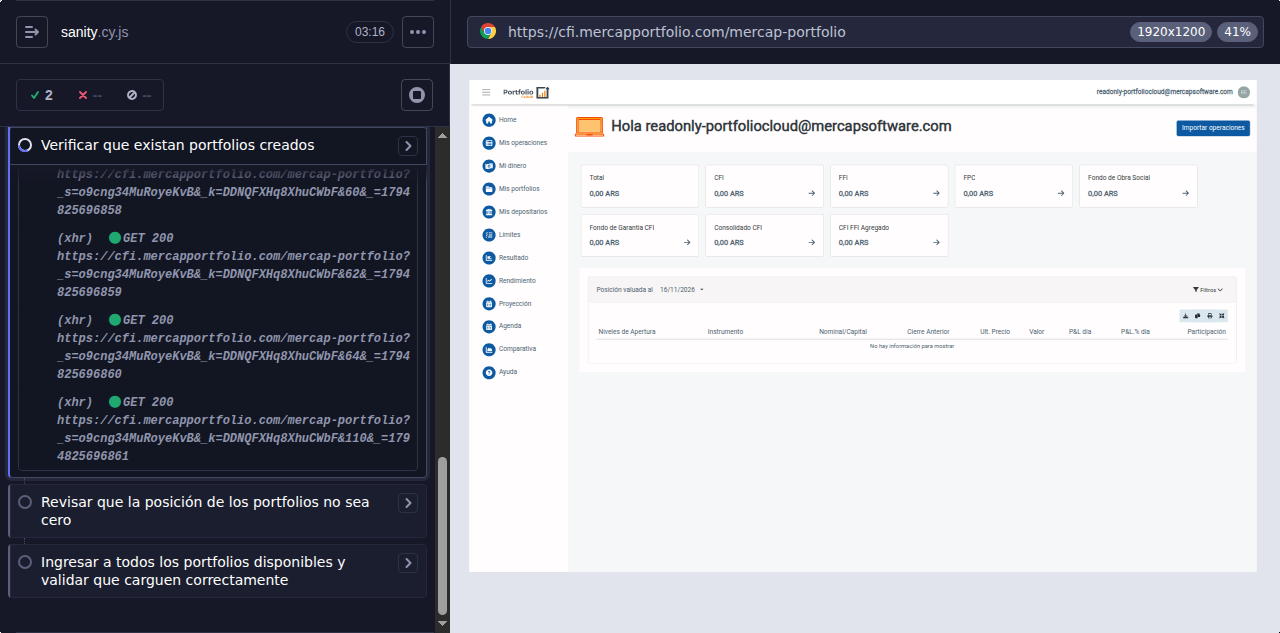
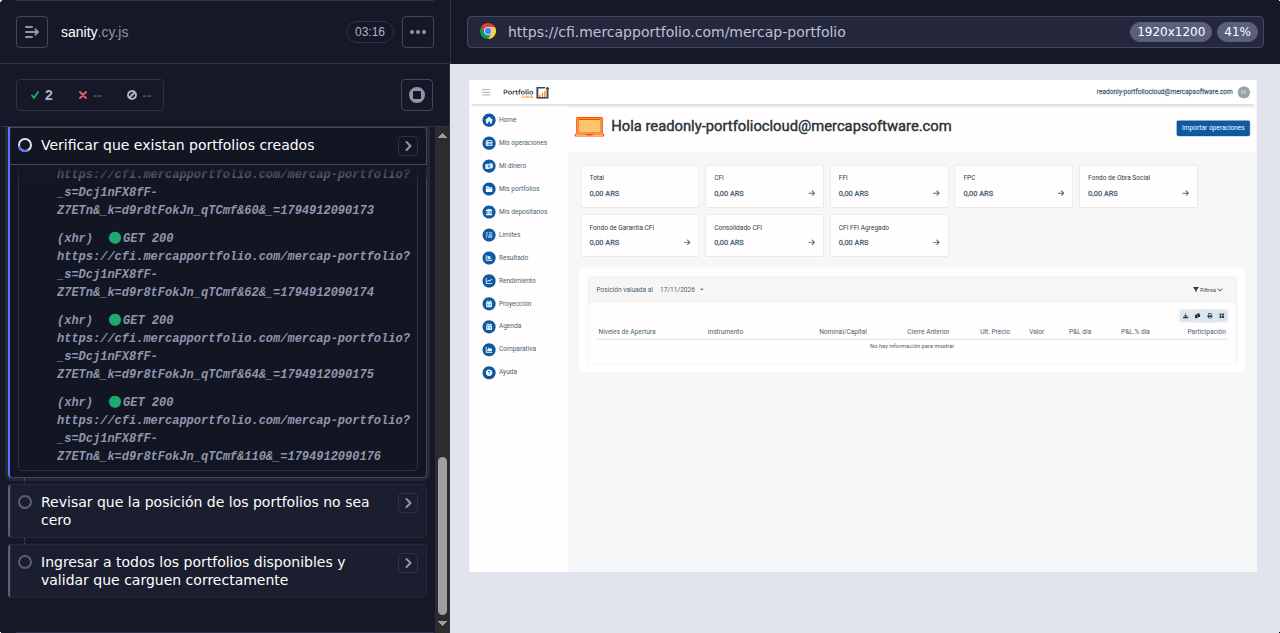
deploy: Mercap/portfolio-qa-tests@4aeec43ded94edbb944f34a9a0a7dde37aa3ffd3

diff --git a/mpc/Production/CFI/sanity/index.html b/mpc/Production/CFI/sanity/index.html
@@ -1,2 +1,2 @@
 <!doctype html>
-<html lang="en"><head><meta charSet="utf-8"/><meta http-equiv="X-UA-Compatible" content="IE=edge"/><meta name="viewport" content="width=device-width, initial-scale=1"/><title>Mochawesome Report</title><link rel="stylesheet" href="assets/app.css"/></head><body data-raw="{&quot;stats&quot;:{&quot;suites&quot;:1,&quot;tests&quot;:5,&quot;passes&quot;:2,&quot;pending&quot;:1,&quot;failures&quot;:1,&quot;testsRegistered&quot;:5,&quot;passPercent&quot;:40,&quot;pendingPercent&quot;:20,&quot;other&quot;:0,&quot;hasOther&quot;:false,&quot;skipped&quot;:1,&quot;hasSkipped&quot;:true,&quot;start&quot;:&quot;2026-11-16T10:41:22.783Z&quot;,&quot;end&quot;:&quot;2026-11-16T10:44:39.587Z&quot;,&quot;duration&quot;:196804},&quot;results&quot;:[{&quot;uuid&quot;:&quot;426143c4-1636-4053-9a1e-b0bec9979eef&quot;,&quot;title&quot;:&quot;&quot;,&quot;fullFile&quot;:&quot;build/production/cfi/specs/sanity/sanity.cy.js&quot;,&quot;file&quot;:&quot;build/production/cfi/specs/sanity/sanity.cy.js&quot;,&quot;beforeHooks&quot;:[],&quot;afterHooks&quot;:[],&quot;tests&quot;:[],&quot;suites&quot;:[{&quot;uuid&quot;:&quot;5859dbad-97ca-4b66-a118-0deee139c617&quot;,&quot;title&quot;:&quot;Precondición Admin Login&quot;,&quot;fullFile&quot;:&quot;&quot;,&quot;file&quot;:&quot;&quot;,&quot;beforeHooks&quot;:[],&quot;afterHooks&quot;:[],&quot;tests&quot;:[{&quot;title&quot;:&quot;Ingresar y hacer login en el admin de MPC&quot;,&quot;fullTitle&quot;:&quot;Precondición Admin Login Ingresar y hacer login en el admin de MPC&quot;,&quot;timedOut&quot;:null,&quot;duration&quot;:6519,&quot;state&quot;:&quot;passed&quot;,&quot;speed&quot;:&quot;medium&quot;,&quot;pass&quot;:true,&quot;fail&quot;:false,&quot;pending&quot;:false,&quot;context&quot;:null,&quot;code&quot;:&quot;cy.adminLoginMPC();&quot;,&quot;err&quot;:{},&quot;uuid&quot;:&quot;3125e8b8-78d6-4340-80b1-bf4f530e5eb8&quot;,&quot;parentUUID&quot;:&quot;5859dbad-97ca-4b66-a118-0deee139c617&quot;,&quot;isHook&quot;:false,&quot;skipped&quot;:false}],&quot;suites&quot;:[],&quot;passes&quot;:[&quot;3125e8b8-78d6-4340-80b1-bf4f530e5eb8&quot;],&quot;failures&quot;:[],&quot;pending&quot;:[],&quot;skipped&quot;:[],&quot;duration&quot;:6519,&quot;root&quot;:false,&quot;rootEmpty&quot;:false,&quot;_timeout&quot;:2000},{&quot;uuid&quot;:&quot;393f3e20-d275-4e20-a376-a4f33802e068&quot;,&quot;title&quot;:&quot;Precondición MPC Login&quot;,&quot;fullFile&quot;:&quot;&quot;,&quot;file&quot;:&quot;&quot;,&quot;beforeHooks&quot;:[],&quot;afterHooks&quot;:[],&quot;tests&quot;:[{&quot;title&quot;:&quot;Login en MPC&quot;,&quot;fullTitle&quot;:&quot;Precondición MPC Login Login en MPC&quot;,&quot;timedOut&quot;:null,&quot;duration&quot;:2525,&quot;state&quot;:&quot;passed&quot;,&quot;speed&quot;:&quot;fast&quot;,&quot;pass&quot;:true,&quot;fail&quot;:false,&quot;pending&quot;:false,&quot;context&quot;:null,&quot;code&quot;:&quot;cy.visit(_support_constants__WEBPACK_IMPORTED_MODULE_0__[\&quot;default\&quot;].MPC_LOCATION);&quot;,&quot;err&quot;:{},&quot;uuid&quot;:&quot;a2599c93-283d-4461-a480-2d75556d364d&quot;,&quot;parentUUID&quot;:&quot;393f3e20-d275-4e20-a376-a4f33802e068&quot;,&quot;isHook&quot;:false,&quot;skipped&quot;:false}],&quot;suites&quot;:[],&quot;passes&quot;:[&quot;a2599c93-283d-4461-a480-2d75556d364d&quot;],&quot;failures&quot;:[],&quot;pending&quot;:[],&quot;skipped&quot;:[],&quot;duration&quot;:2525,&quot;root&quot;:false,&quot;rootEmpty&quot;:false,&quot;_timeout&quot;:2000},{&quot;uuid&quot;:&quot;bab54916-c61a-47db-b9fe-b38994ee39dc&quot;,&quot;title&quot;:&quot;Verificar la posición valuada de los portfolios&quot;,&quot;fullFile&quot;:&quot;&quot;,&quot;file&quot;:&quot;&quot;,&quot;beforeHooks&quot;:[],&quot;afterHooks&quot;:[],&quot;tests&quot;:[{&quot;title&quot;:&quot;Verificar que existan portfolios creados&quot;,&quot;fullTitle&quot;:&quot;Verificar la posición valuada de los portfolios Verificar que existan portfolios creados&quot;,&quot;timedOut&quot;:null,&quot;duration&quot;:180207,&quot;state&quot;:&quot;failed&quot;,&quot;speed&quot;:null,&quot;pass&quot;:false,&quot;fail&quot;:true,&quot;pending&quot;:false,&quot;context&quot;:null,&quot;code&quot;:&quot;cy.validacionesHome();\n    cy.skipEncuesta();&quot;,&quot;err&quot;:{&quot;message&quot;:&quot;AssertionError: Timed out retrying after 180000ms: Expected to find element: `rect[class=\&quot;highcharts-background\&quot;]`, but never found it.&quot;,&quot;estack&quot;:&quot;AssertionError: Timed out retrying after 180000ms: Expected to find element: `rect[class=\&quot;highcharts-background\&quot;]`, but never found it.\n    at Context.eval (webpack://cypress/./cypress/support/commands/home.commands.js:191:0)\n    at wrapped (https://mercap.auth0.com/__cypress/runner/cypress_runner.js:146042:43)&quot;,&quot;diff&quot;:null},&quot;uuid&quot;:&quot;4bdd5d2b-cd41-4fbe-93be-1ebb9c03a8f9&quot;,&quot;parentUUID&quot;:&quot;bab54916-c61a-47db-b9fe-b38994ee39dc&quot;,&quot;isHook&quot;:false,&quot;skipped&quot;:false},{&quot;title&quot;:&quot;Revisar que la posición de los portfolios no sea cero&quot;,&quot;fullTitle&quot;:&quot;Verificar la posición valuada de los portfolios Revisar que la posición de los portfolios no sea cero&quot;,&quot;timedOut&quot;:null,&quot;duration&quot;:0,&quot;state&quot;:&quot;pending&quot;,&quot;speed&quot;:null,&quot;pass&quot;:false,&quot;fail&quot;:false,&quot;pending&quot;:true,&quot;context&quot;:null,&quot;code&quot;:&quot;cy.validarPortfoliosSinValorCero(&#x27;h6&#x27;, &#x27;h4&#x27;);&quot;,&quot;err&quot;:{},&quot;uuid&quot;:&quot;3dbda38f-964f-42e3-863a-52048c275789&quot;,&quot;parentUUID&quot;:&quot;bab54916-c61a-47db-b9fe-b38994ee39dc&quot;,&quot;isHook&quot;:false,&quot;skipped&quot;:false},{&quot;title&quot;:&quot;Ingresar a todos los portfolios disponibles y validar que carguen correctamente&quot;,&quot;fullTitle&quot;:&quot;Verificar la posición valuada de los portfolios Ingresar a todos los portfolios disponibles y validar que carguen correctamente&quot;,&quot;timedOut&quot;:null,&quot;duration&quot;:0,&quot;state&quot;:&quot;skipped&quot;,&quot;speed&quot;:null,&quot;pass&quot;:false,&quot;fail&quot;:false,&quot;pending&quot;:false,&quot;context&quot;:null,&quot;code&quot;:&quot;cy.contains(&#x27;Mis portfolios&#x27;, { matchCase: false }).click();\n    cy.validacionesMisPortfolios();\n    cy.recorridaPortfolios();&quot;,&quot;err&quot;:{},&quot;uuid&quot;:&quot;af831a10-b125-4d46-aaa8-4c69b2bddbf6&quot;,&quot;parentUUID&quot;:&quot;bab54916-c61a-47db-b9fe-b38994ee39dc&quot;,&quot;isHook&quot;:false,&quot;skipped&quot;:true}],&quot;suites&quot;:[],&quot;passes&quot;:[],&quot;failures&quot;:[&quot;4bdd5d2b-cd41-4fbe-93be-1ebb9c03a8f9&quot;],&quot;pending&quot;:[&quot;3dbda38f-964f-42e3-863a-52048c275789&quot;],&quot;skipped&quot;:[&quot;af831a10-b125-4d46-aaa8-4c69b2bddbf6&quot;],&quot;duration&quot;:180207,&quot;root&quot;:false,&quot;rootEmpty&quot;:false,&quot;_timeout&quot;:2000}],&quot;passes&quot;:[],&quot;failures&quot;:[],&quot;pending&quot;:[],&quot;skipped&quot;:[],&quot;duration&quot;:0,&quot;root&quot;:true,&quot;rootEmpty&quot;:true,&quot;_timeout&quot;:2000}],&quot;meta&quot;:{&quot;mocha&quot;:{&quot;version&quot;:&quot;7.2.0&quot;},&quot;mochawesome&quot;:{&quot;options&quot;:{&quot;quiet&quot;:false,&quot;reportFilename&quot;:&quot;report&quot;,&quot;saveHtml&quot;:true,&quot;saveJson&quot;:true,&quot;consoleReporter&quot;:&quot;spec&quot;,&quot;useInlineDiffs&quot;:false,&quot;code&quot;:true},&quot;version&quot;:&quot;7.1.4&quot;},&quot;marge&quot;:{&quot;options&quot;:{&quot;reportDir&quot;:&quot;cypress/reports&quot;,&quot;overwrite&quot;:false,&quot;cleanReporterJson&quot;:false,&quot;html&quot;:true,&quot;json&quot;:true,&quot;reportFilename&quot;:&quot;report&quot;,&quot;embeddedScreenshots&quot;:true,&quot;inlineAssets&quot;:true},&quot;version&quot;:&quot;6.3.2&quot;}}}" data-config="{&quot;reportFilename&quot;:&quot;index&quot;,&quot;reportDir&quot;:&quot;cypress/reports&quot;,&quot;reportTitle&quot;:&quot;portfolio-qa-tests&quot;,&quot;reportPageTitle&quot;:&quot;Mochawesome Report&quot;,&quot;inline&quot;:false,&quot;inlineAssets&quot;:false,&quot;cdn&quot;:false,&quot;charts&quot;:false,&quot;enableCharts&quot;:false,&quot;code&quot;:true,&quot;enableCode&quot;:true,&quot;autoOpen&quot;:false,&quot;overwrite&quot;:true,&quot;timestamp&quot;:false,&quot;ts&quot;:false,&quot;showPassed&quot;:true,&quot;showFailed&quot;:true,&quot;showPending&quot;:true,&quot;showSkipped&quot;:false,&quot;showHooks&quot;:&quot;failed&quot;,&quot;saveJson&quot;:false,&quot;saveHtml&quot;:true,&quot;dev&quot;:false,&quot;assetsDir&quot;:&quot;cypress/reports/assets&quot;,&quot;htmlFile&quot;:&quot;/home/runner/work/portfolio-qa-tests/portfolio-qa-tests/cypress/reports/index.html&quot;}"><div id="report"></div><script src="assets/app.js"></script></body></html>
+<html lang="en"><head><meta charSet="utf-8"/><meta http-equiv="X-UA-Compatible" content="IE=edge"/><meta name="viewport" content="width=device-width, initial-scale=1"/><title>Mochawesome Report</title><link rel="stylesheet" href="assets/app.css"/></head><body data-raw="{&quot;stats&quot;:{&quot;suites&quot;:1,&quot;tests&quot;:5,&quot;passes&quot;:2,&quot;pending&quot;:1,&quot;failures&quot;:1,&quot;testsRegistered&quot;:5,&quot;passPercent&quot;:40,&quot;pendingPercent&quot;:20,&quot;other&quot;:0,&quot;hasOther&quot;:false,&quot;skipped&quot;:1,&quot;hasSkipped&quot;:true,&quot;start&quot;:&quot;2026-11-17T10:41:16.182Z&quot;,&quot;end&quot;:&quot;2026-11-17T10:44:33.633Z&quot;,&quot;duration&quot;:197451},&quot;results&quot;:[{&quot;uuid&quot;:&quot;523249d3-6ff8-4694-9be5-bb632e6fd648&quot;,&quot;title&quot;:&quot;&quot;,&quot;fullFile&quot;:&quot;build/production/cfi/specs/sanity/sanity.cy.js&quot;,&quot;file&quot;:&quot;build/production/cfi/specs/sanity/sanity.cy.js&quot;,&quot;beforeHooks&quot;:[],&quot;afterHooks&quot;:[],&quot;tests&quot;:[],&quot;suites&quot;:[{&quot;uuid&quot;:&quot;a35204a9-d9be-4ca6-9032-3aeb67f3a6aa&quot;,&quot;title&quot;:&quot;Precondición Admin Login&quot;,&quot;fullFile&quot;:&quot;&quot;,&quot;file&quot;:&quot;&quot;,&quot;beforeHooks&quot;:[],&quot;afterHooks&quot;:[],&quot;tests&quot;:[{&quot;title&quot;:&quot;Ingresar y hacer login en el admin de MPC&quot;,&quot;fullTitle&quot;:&quot;Precondición Admin Login Ingresar y hacer login en el admin de MPC&quot;,&quot;timedOut&quot;:null,&quot;duration&quot;:6867,&quot;state&quot;:&quot;passed&quot;,&quot;speed&quot;:&quot;medium&quot;,&quot;pass&quot;:true,&quot;fail&quot;:false,&quot;pending&quot;:false,&quot;context&quot;:null,&quot;code&quot;:&quot;cy.adminLoginMPC();&quot;,&quot;err&quot;:{},&quot;uuid&quot;:&quot;5dd30ece-510f-44c4-8617-27c20d050b94&quot;,&quot;parentUUID&quot;:&quot;a35204a9-d9be-4ca6-9032-3aeb67f3a6aa&quot;,&quot;isHook&quot;:false,&quot;skipped&quot;:false}],&quot;suites&quot;:[],&quot;passes&quot;:[&quot;5dd30ece-510f-44c4-8617-27c20d050b94&quot;],&quot;failures&quot;:[],&quot;pending&quot;:[],&quot;skipped&quot;:[],&quot;duration&quot;:6867,&quot;root&quot;:false,&quot;rootEmpty&quot;:false,&quot;_timeout&quot;:2000},{&quot;uuid&quot;:&quot;04bea74d-e125-4551-a19b-6d9c8e522ed0&quot;,&quot;title&quot;:&quot;Precondición MPC Login&quot;,&quot;fullFile&quot;:&quot;&quot;,&quot;file&quot;:&quot;&quot;,&quot;beforeHooks&quot;:[],&quot;afterHooks&quot;:[],&quot;tests&quot;:[{&quot;title&quot;:&quot;Login en MPC&quot;,&quot;fullTitle&quot;:&quot;Precondición MPC Login Login en MPC&quot;,&quot;timedOut&quot;:null,&quot;duration&quot;:2139,&quot;state&quot;:&quot;passed&quot;,&quot;speed&quot;:&quot;fast&quot;,&quot;pass&quot;:true,&quot;fail&quot;:false,&quot;pending&quot;:false,&quot;context&quot;:null,&quot;code&quot;:&quot;cy.visit(_support_constants__WEBPACK_IMPORTED_MODULE_0__[\&quot;default\&quot;].MPC_LOCATION);&quot;,&quot;err&quot;:{},&quot;uuid&quot;:&quot;df8e5538-3be0-4a58-ad60-6d876752c737&quot;,&quot;parentUUID&quot;:&quot;04bea74d-e125-4551-a19b-6d9c8e522ed0&quot;,&quot;isHook&quot;:false,&quot;skipped&quot;:false}],&quot;suites&quot;:[],&quot;passes&quot;:[&quot;df8e5538-3be0-4a58-ad60-6d876752c737&quot;],&quot;failures&quot;:[],&quot;pending&quot;:[],&quot;skipped&quot;:[],&quot;duration&quot;:2139,&quot;root&quot;:false,&quot;rootEmpty&quot;:false,&quot;_timeout&quot;:2000},{&quot;uuid&quot;:&quot;857952a3-aaed-43e4-a8b0-349a01ba4d85&quot;,&quot;title&quot;:&quot;Verificar la posición valuada de los portfolios&quot;,&quot;fullFile&quot;:&quot;&quot;,&quot;file&quot;:&quot;&quot;,&quot;beforeHooks&quot;:[],&quot;afterHooks&quot;:[],&quot;tests&quot;:[{&quot;title&quot;:&quot;Verificar que existan portfolios creados&quot;,&quot;fullTitle&quot;:&quot;Verificar la posición valuada de los portfolios Verificar que existan portfolios creados&quot;,&quot;timedOut&quot;:null,&quot;duration&quot;:180206,&quot;state&quot;:&quot;failed&quot;,&quot;speed&quot;:null,&quot;pass&quot;:false,&quot;fail&quot;:true,&quot;pending&quot;:false,&quot;context&quot;:null,&quot;code&quot;:&quot;cy.validacionesHome();\n    cy.skipEncuesta();&quot;,&quot;err&quot;:{&quot;message&quot;:&quot;AssertionError: Timed out retrying after 180000ms: Expected to find element: `rect[class=\&quot;highcharts-background\&quot;]`, but never found it.&quot;,&quot;estack&quot;:&quot;AssertionError: Timed out retrying after 180000ms: Expected to find element: `rect[class=\&quot;highcharts-background\&quot;]`, but never found it.\n    at Context.eval (webpack://cypress/./cypress/support/commands/home.commands.js:191:0)\n    at wrapped (https://mercap.auth0.com/__cypress/runner/cypress_runner.js:146042:43)&quot;,&quot;diff&quot;:null},&quot;uuid&quot;:&quot;31481b72-cf10-46ed-9f10-8a5c9b08740b&quot;,&quot;parentUUID&quot;:&quot;857952a3-aaed-43e4-a8b0-349a01ba4d85&quot;,&quot;isHook&quot;:false,&quot;skipped&quot;:false},{&quot;title&quot;:&quot;Revisar que la posición de los portfolios no sea cero&quot;,&quot;fullTitle&quot;:&quot;Verificar la posición valuada de los portfolios Revisar que la posición de los portfolios no sea cero&quot;,&quot;timedOut&quot;:null,&quot;duration&quot;:0,&quot;state&quot;:&quot;pending&quot;,&quot;speed&quot;:null,&quot;pass&quot;:false,&quot;fail&quot;:false,&quot;pending&quot;:true,&quot;context&quot;:null,&quot;code&quot;:&quot;cy.validarPortfoliosSinValorCero(&#x27;h6&#x27;, &#x27;h4&#x27;);&quot;,&quot;err&quot;:{},&quot;uuid&quot;:&quot;021e6446-5e77-44ca-a720-30f1c541c426&quot;,&quot;parentUUID&quot;:&quot;857952a3-aaed-43e4-a8b0-349a01ba4d85&quot;,&quot;isHook&quot;:false,&quot;skipped&quot;:false},{&quot;title&quot;:&quot;Ingresar a todos los portfolios disponibles y validar que carguen correctamente&quot;,&quot;fullTitle&quot;:&quot;Verificar la posición valuada de los portfolios Ingresar a todos los portfolios disponibles y validar que carguen correctamente&quot;,&quot;timedOut&quot;:null,&quot;duration&quot;:0,&quot;state&quot;:&quot;skipped&quot;,&quot;speed&quot;:null,&quot;pass&quot;:false,&quot;fail&quot;:false,&quot;pending&quot;:false,&quot;context&quot;:null,&quot;code&quot;:&quot;cy.contains(&#x27;Mis portfolios&#x27;, { matchCase: false }).click();\n    cy.validacionesMisPortfolios();\n    cy.recorridaPortfolios();&quot;,&quot;err&quot;:{},&quot;uuid&quot;:&quot;d39fff7d-e8bc-4eba-af17-80fc0713827f&quot;,&quot;parentUUID&quot;:&quot;857952a3-aaed-43e4-a8b0-349a01ba4d85&quot;,&quot;isHook&quot;:false,&quot;skipped&quot;:true}],&quot;suites&quot;:[],&quot;passes&quot;:[],&quot;failures&quot;:[&quot;31481b72-cf10-46ed-9f10-8a5c9b08740b&quot;],&quot;pending&quot;:[&quot;021e6446-5e77-44ca-a720-30f1c541c426&quot;],&quot;skipped&quot;:[&quot;d39fff7d-e8bc-4eba-af17-80fc0713827f&quot;],&quot;duration&quot;:180206,&quot;root&quot;:false,&quot;rootEmpty&quot;:false,&quot;_timeout&quot;:2000}],&quot;passes&quot;:[],&quot;failures&quot;:[],&quot;pending&quot;:[],&quot;skipped&quot;:[],&quot;duration&quot;:0,&quot;root&quot;:true,&quot;rootEmpty&quot;:true,&quot;_timeout&quot;:2000}],&quot;meta&quot;:{&quot;mocha&quot;:{&quot;version&quot;:&quot;7.2.0&quot;},&quot;mochawesome&quot;:{&quot;options&quot;:{&quot;quiet&quot;:false,&quot;reportFilename&quot;:&quot;report&quot;,&quot;saveHtml&quot;:true,&quot;saveJson&quot;:true,&quot;consoleReporter&quot;:&quot;spec&quot;,&quot;useInlineDiffs&quot;:false,&quot;code&quot;:true},&quot;version&quot;:&quot;7.1.4&quot;},&quot;marge&quot;:{&quot;options&quot;:{&quot;reportDir&quot;:&quot;cypress/reports&quot;,&quot;overwrite&quot;:false,&quot;cleanReporterJson&quot;:false,&quot;html&quot;:true,&quot;json&quot;:true,&quot;reportFilename&quot;:&quot;report&quot;,&quot;embeddedScreenshots&quot;:true,&quot;inlineAssets&quot;:true},&quot;version&quot;:&quot;6.3.2&quot;}}}" data-config="{&quot;reportFilename&quot;:&quot;index&quot;,&quot;reportDir&quot;:&quot;cypress/reports&quot;,&quot;reportTitle&quot;:&quot;portfolio-qa-tests&quot;,&quot;reportPageTitle&quot;:&quot;Mochawesome Report&quot;,&quot;inline&quot;:false,&quot;inlineAssets&quot;:false,&quot;cdn&quot;:false,&quot;charts&quot;:false,&quot;enableCharts&quot;:false,&quot;code&quot;:true,&quot;enableCode&quot;:true,&quot;autoOpen&quot;:false,&quot;overwrite&quot;:true,&quot;timestamp&quot;:false,&quot;ts&quot;:false,&quot;showPassed&quot;:true,&quot;showFailed&quot;:true,&quot;showPending&quot;:true,&quot;showSkipped&quot;:false,&quot;showHooks&quot;:&quot;failed&quot;,&quot;saveJson&quot;:false,&quot;saveHtml&quot;:true,&quot;dev&quot;:false,&quot;assetsDir&quot;:&quot;cypress/reports/assets&quot;,&quot;htmlFile&quot;:&quot;/home/runner/work/portfolio-qa-tests/portfolio-qa-tests/cypress/reports/index.html&quot;}"><div id="report"></div><script src="assets/app.js"></script></body></html>
